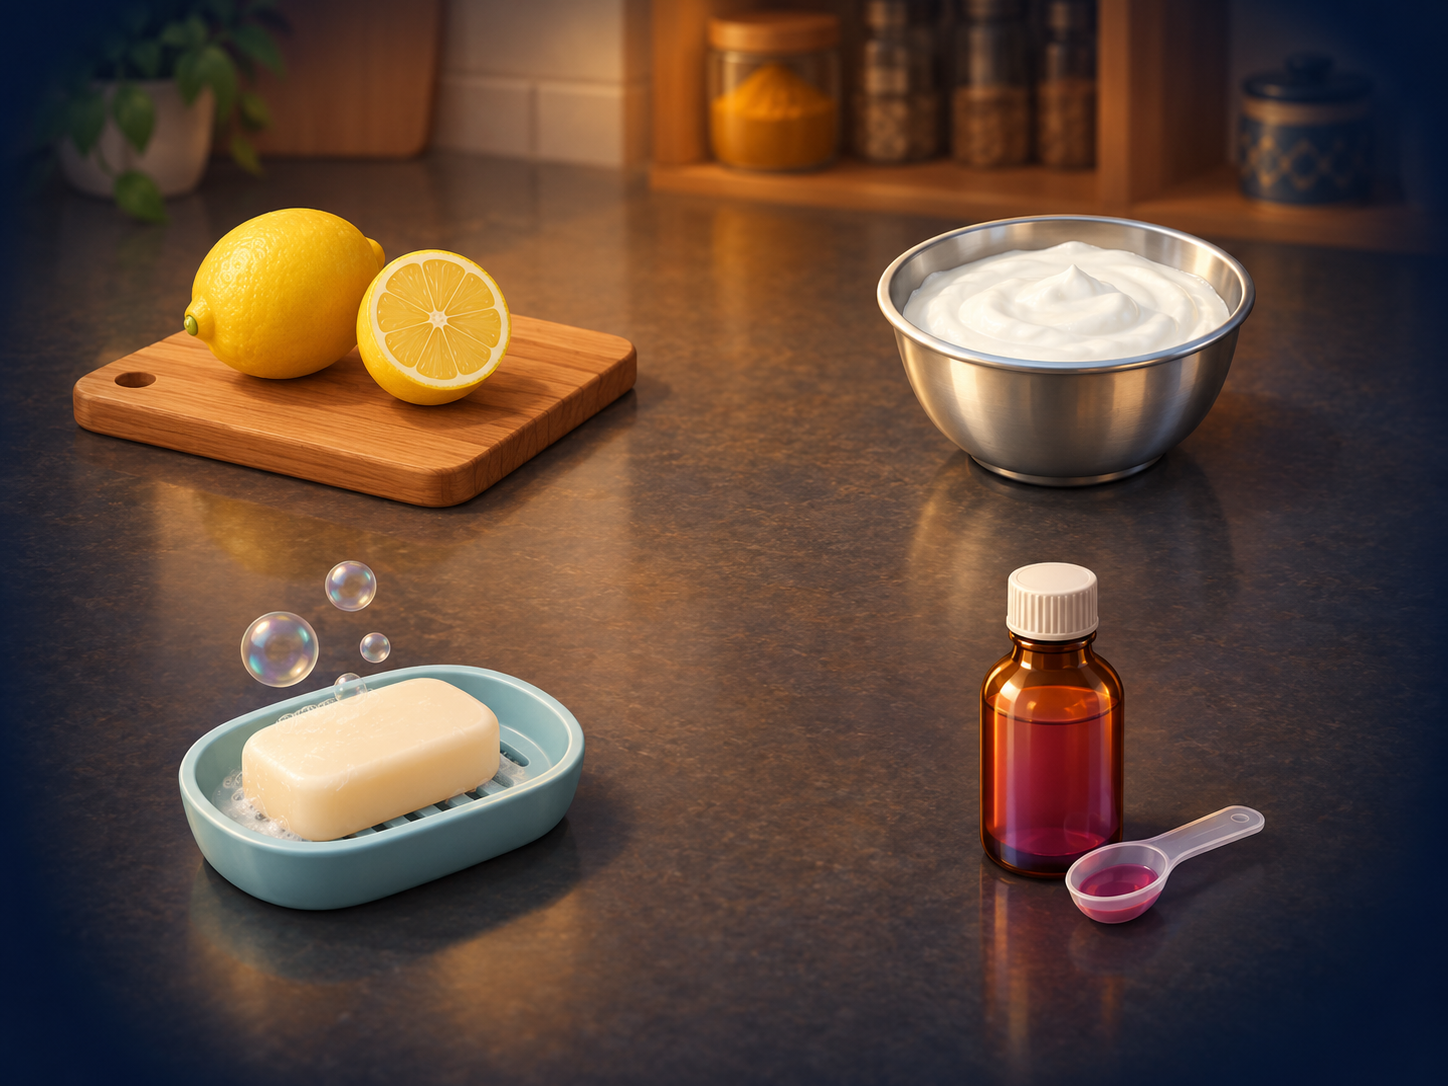
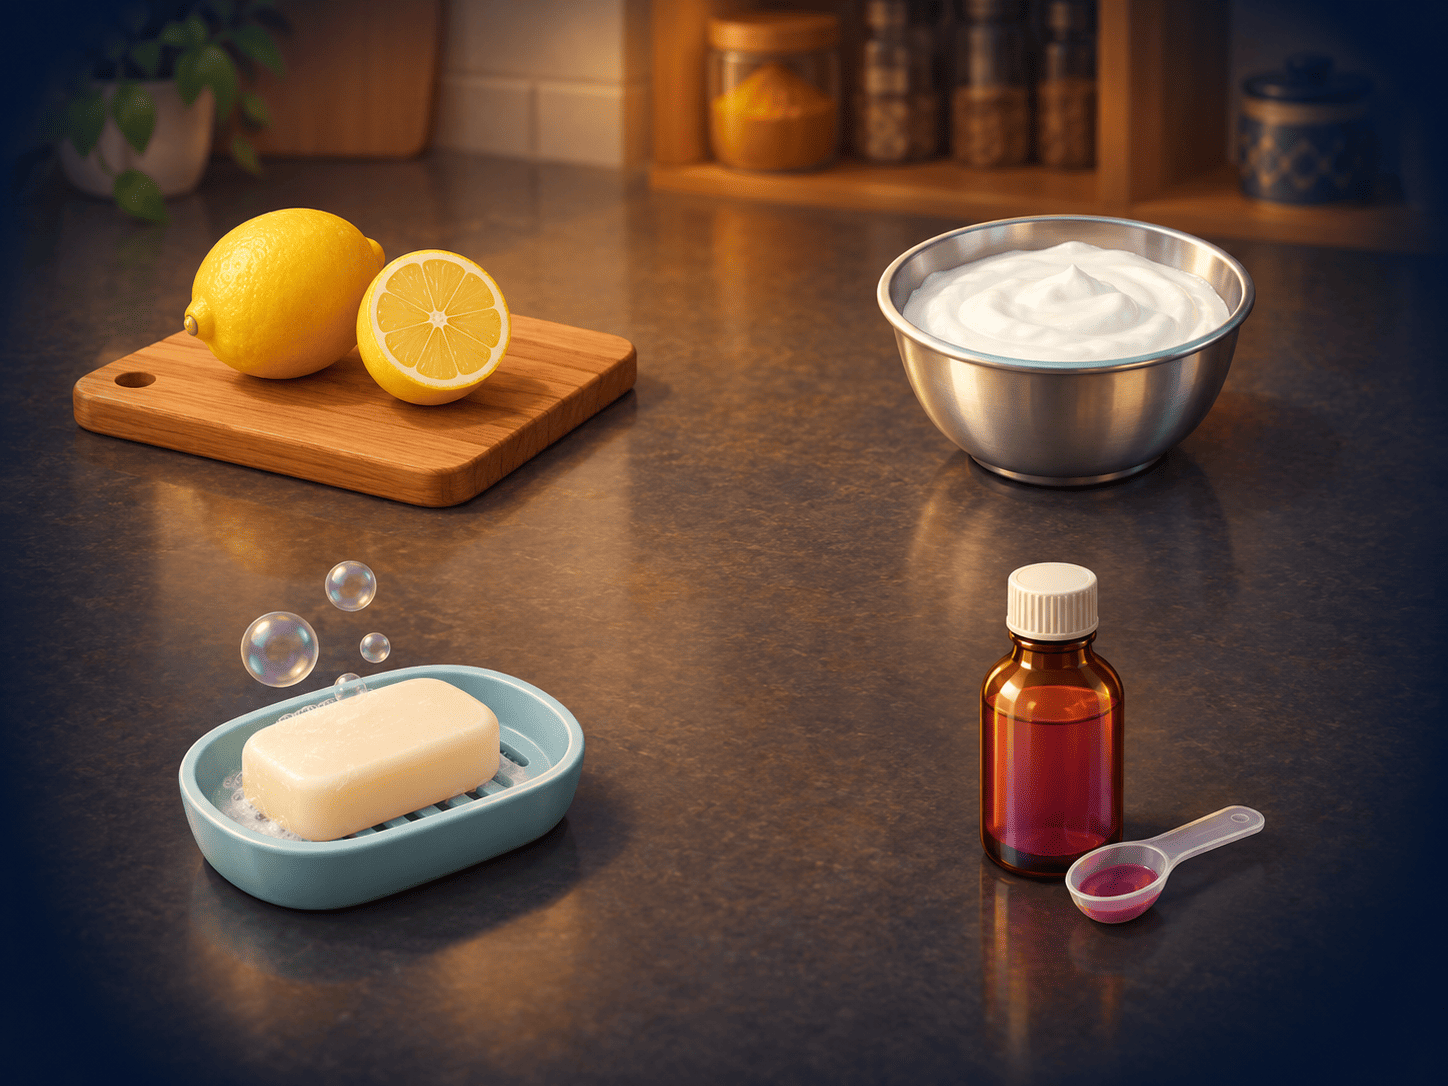
leadgate fast and image compress v1

diff --git a/app/components/LeadGate.tsx b/app/components/LeadGate.tsx
@@ -51,7 +51,7 @@ export default function LeadGate({ onSubmit }: Props) {
     return Object.keys(e).length === 0;
   };
 
-  const handleSubmit = async (e?: React.FormEvent) => {
+  const handleSubmit = (e?: React.FormEvent) => {
     if (e) e.preventDefault();
     if (!validate()) return;
     setLoading(true);
@@ -63,10 +63,12 @@ export default function LeadGate({ onSubmit }: Props) {
         mobile: form.mobile,
         timestamp: new Date().toLocaleString('en-IN', { hour12: false }),
       });
-      await fetch(`${GOOGLE_SCRIPT_URL}?${params.toString()}`, { method: 'GET', mode: 'no-cors' });
+      fetch(`${GOOGLE_SCRIPT_URL}?${params.toString()}`, { method: 'GET', mode: 'no-cors', keepalive: true })
+        .catch((err) => console.error('Lead submit failed:', err));
     } catch { /* silent — no-cors won't throw usefully */ }
     setSubmitted(true);
-    setTimeout(() => { setLoading(false); onSubmit(form); }, 800);
+    onSubmit(form);
+    setLoading(false);
   };
 
   const inputClasses = "w-full border border-slate-200 rounded-xl px-4 py-3 text-slate-800 placeholder-slate-400 focus:outline-none focus:ring-4 focus:ring-teal-500/10 focus:border-teal-500 transition text-sm bg-white";
